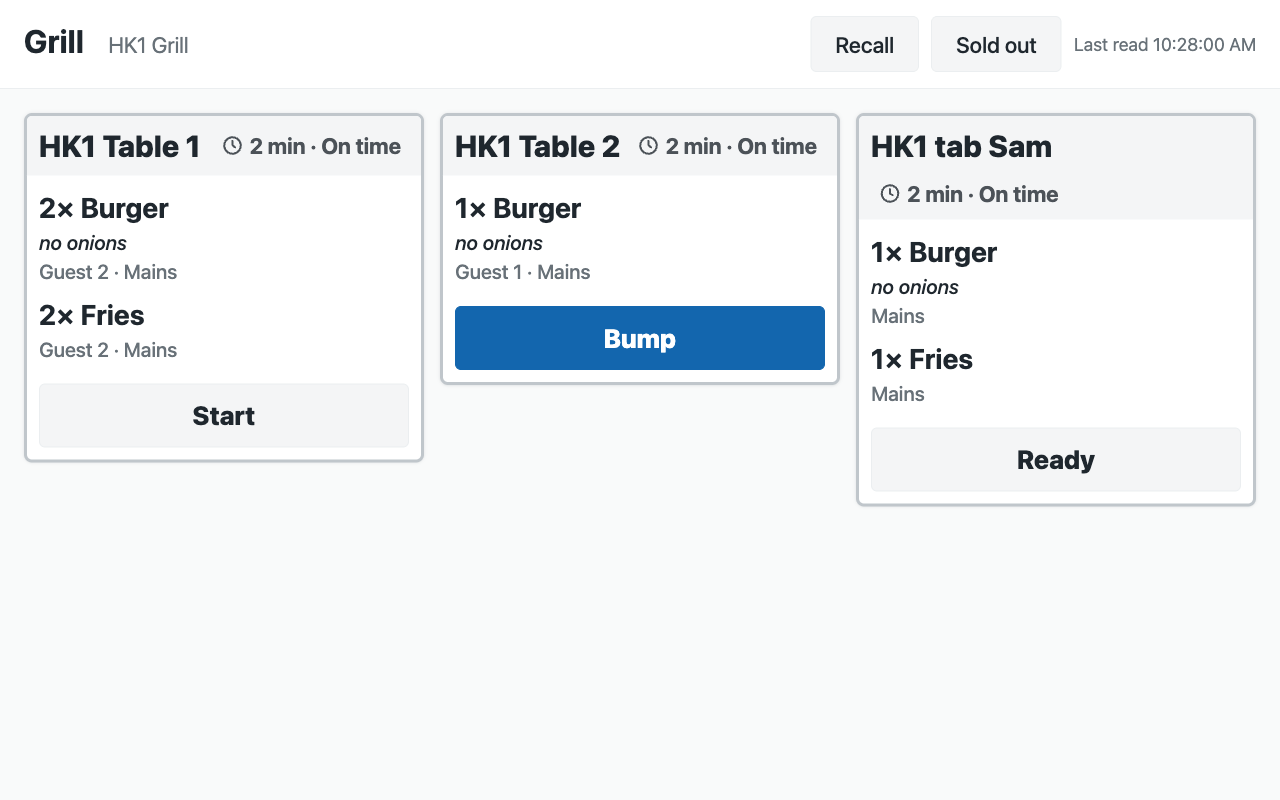
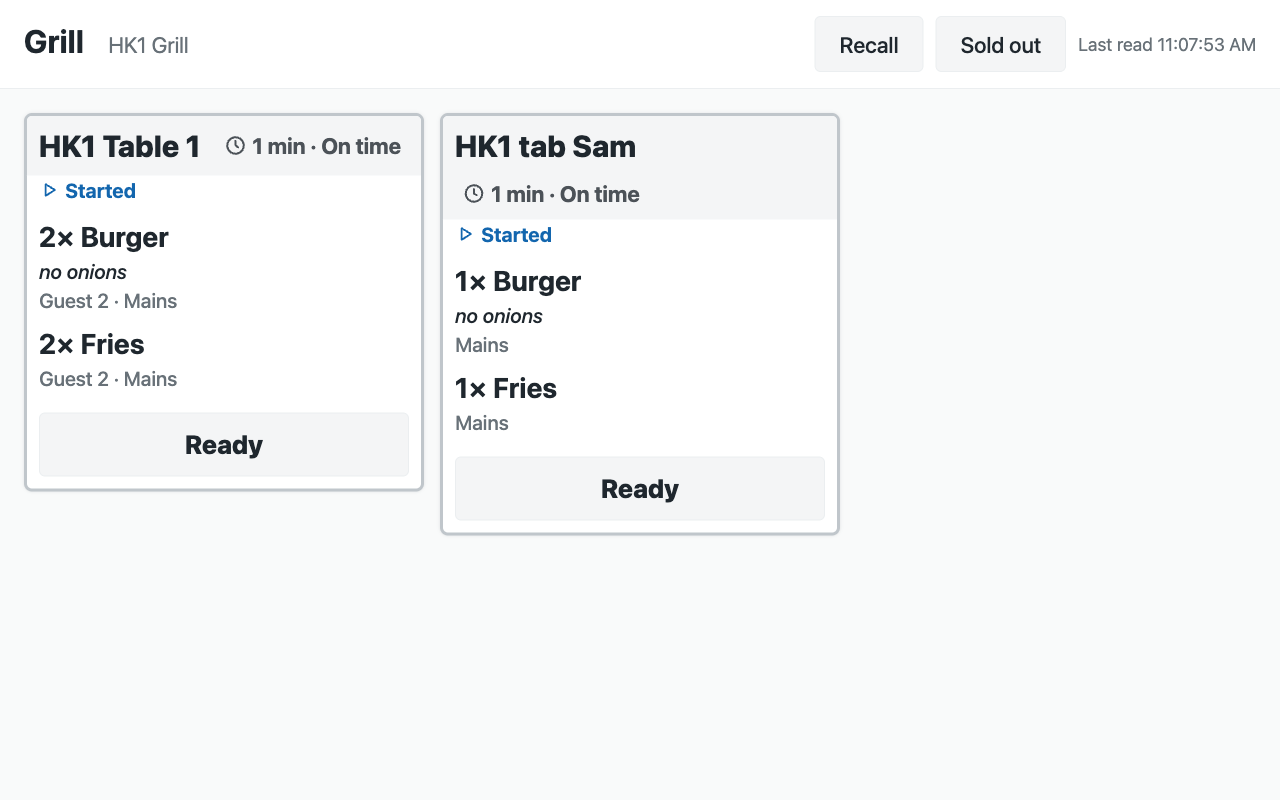
fix(samples): S59 — the scoped re-grades' folds (the Arabic mark, a refusal held for its own ticket, the started chip, a refused sold-out read kept)
Folds of review wave 1b (each fold graded by the gate that did not write it). Each with its class:
- Arabic Mark sold out is a verb again (it read the same as the red sold-out label); French bump is Retirer (the till's
  French for send is the kitchen send); the word note names only the till's words the page uses (WORDS).
- A tap's refusal is held 6 s and taken down only by a later success on the same ticket or dish (a success elsewhere
  no longer hides it; walked: two taps at once, the second ticket's success left the first's refusal up); the hold
  uses the page's monotonic clock (PAGE).
- The started chip has its own icon and the kit's blue (the flame and amber are the timer's late signs) (PAGE).
- A refused sold-out read is kept refused 30 s, so a missing right costs 2 calls a minute, not 20 (CODE, test s6 and a
  canary).
- The recipe's read rate (up to 40 board reads a minute for a store on one copy), and a manager's store scope is
  site-wide; the README's walk claim now names the walk after these folds; the pictures are retaken.
63 tests, 63 of 63 canaries RED.

diff --git a/samples/s59_kitchen_screen/service/page.js b/samples/s59_kitchen_screen/service/page.js
@@ -7,8 +7,8 @@
 (function () {
   "use strict";
   var READ_MS = 3000, RETRY_MS = 3000, LATE_READ_S = 15, NOTE_MS = 6000;
-  // The till's own words where it has them (check, guest, course, send, sold out: its ar, es and fr tables at T21);
-  // German and Portuguese are this app's own until the till signs them.
+  // The till's own words where it has them (guest and sold out, from its ar, es and fr tables at T21; send is never
+  // used for a bump, which is the kitchen's own step); German and Portuguese are this app's own until the till signs them.
   var WORDS = {
     en: { start: "Start", ready: "Ready", bump: "Bump", bumpOrder: "Bump order", recall: "Recall", soldOut: "Sold out",
           soldTitle: "Sold out at this store", markSold: "Mark sold out", markBack: "Available again", isSold: "Sold out",
@@ -25,7 +25,7 @@
           not_yours: "This ticket is another station's.", wait: "One moment, then tap again.",
           not_listed: "That dish is not on this screen's list.", off: "Sold out is switched off for this store." },
     ar: { start: "ابدأ", ready: "جاهز", bump: "أنهِ", bumpOrder: "أنهِ الطلب", recall: "استرجاع", soldOut: "نفدت الكمية",
-          soldTitle: "نفدت الكمية في هذا المتجر", markSold: "نفدت الكمية", markBack: "متوفر مرة أخرى", isSold: "نفدت الكمية",
+          soldTitle: "نفدت الكمية في هذا المتجر", markSold: "علّمه نافدًا", markBack: "متوفر مرة أخرى", isSold: "نفدت الكمية",
           close: "إغلاق", waiting: "ما زال للتحضير", preparing: "قيد التحضير", readyCol: "جاهز", void: "ملغى: أوقف التحضير",
           recallNote: "أُنهيت في آخر 30 دقيقة، لقراءتها مرة أخرى. لا يمكن إعادة تذكرة منتهية.",
           lastRead: "آخر قراءة {t}", empty: "لا تذاكر", nothing: "لا شيء بانتظار التحضير", onTime: "في الوقت",
@@ -52,14 +52,14 @@
           step: "Este ticket cambió en otra pantalla. Se lee el tablero otra vez.", gone: "Este ticket ya no está en el tablero.",
           not_yours: "Este ticket es de otra estación.", wait: "Un momento y pulse otra vez.",
           not_listed: "Ese plato no está en la lista de esta pantalla.", off: "Agotado está desactivado en esta tienda." },
-    fr: { start: "Commencer", ready: "Prêt", bump: "Envoyer", bumpOrder: "Envoyer la commande", recall: "Rappel",
+    fr: { start: "Commencer", ready: "Prêt", bump: "Retirer", bumpOrder: "Retirer la commande", recall: "Rappel",
           soldOut: "Épuisé", soldTitle: "Épuisé dans ce magasin", markSold: "Marquer épuisé", markBack: "De nouveau disponible",
           isSold: "Épuisé", close: "Fermer", waiting: "Reste à préparer", preparing: "En préparation", readyCol: "Prêt",
           void: "Annulé : ne pas préparer",
-          recallNote: "Envoyés dans les 30 dernières minutes, à relire. Un ticket envoyé ne peut pas revenir en arrière.",
+          recallNote: "Retirés dans les 30 dernières minutes, à relire. Un ticket retiré ne peut pas revenir en arrière.",
           lastRead: "Dernière lecture {t}", empty: "Aucun ticket", nothing: "Rien en attente", onTime: "À l'heure",
           warn: "Bientôt en retard", late: "En retard", min: "{n} min", guest: "Couvert {n}", stNew: "Nouveau",
-          stStarted: "Commencé", stReady: "Prêt", stBumped: "Envoyé", loading: "Lecture des tickets de la cuisine...",
+          stStarted: "Commencé", stReady: "Prêt", stBumped: "Retiré", loading: "Lecture des tickets de la cuisine...",
           unknown: "Le lien de cet écran ne fonctionne pas ou a été remplacé. Demandez le nouveau lien à votre responsable.",
           closed: "Ce magasin n'a pas d'écrans de cuisine configurés. Demandez à votre responsable.",
           not_set_up: "Cet écran ne peut pas lire les tickets. Demandez à votre responsable de vérifier l'utilisateur de l'app et sa clé.",
@@ -124,6 +124,7 @@
     warn: ["M12 3l9 16H3z", "M12 10v4", "M12 17v.5"],
     check: ["M5 12l5 5L19 7"],
     cross: ["M6 6l12 12", "M18 6L6 18"],
+    play: ["M8 5l11 7-11 7z"],
     flame: ["M12 3c3 4 5 6 5 10a5 5 0 0 1-10 0c0-2 1-4 3-5c0 2 1 3 2 3c0-3-1-5 0-8"]
   };
   function icon(name) {
@@ -163,12 +164,16 @@
       .then(function (r) { return r.json().catch(function () { return { state: "unavailable" }; }); })
       .catch(function () { return { state: "unavailable" }; });
   }
-  var noteUntil = 0;
+  var noteUntil = 0, noteFor = "";
+  function answered(a, what) {       // a refusal is held; a later success on the SAME ticket or dish takes it down
+    if (a.state === "refused" && WORDS.en[a.why]) { note(a.why, true); noteFor = what; }
+    else if (what === noteFor) { noteUntil = 0; note(""); }
+  }
   function note(key, hold) {         // a tap's refusal is held NOTE_MS, so the read that follows does not wipe it
     var n = $("note");
-    if (!key) { if (Date.now() < noteUntil) return; n.hidden = true; n.textContent = ""; return; }
+    if (!key) { if (performance.now() < noteUntil) return; n.hidden = true; n.textContent = ""; return; }
     n.textContent = w(key); n.hidden = false;
-    noteUntil = hold ? Date.now() + NOTE_MS : 0;
+    noteUntil = hold ? performance.now() + NOTE_MS : 0;
   }
   function schedule(ms) { clearTimeout(timer); timer = setTimeout(read, ms); }
   function read() {
@@ -205,13 +210,13 @@
     busy[key] = true; btn.disabled = true;
     call("/ksc/move", extra).then(function (a) {
       busy[key] = false;
-      if (a.state === "refused" && WORDS.en[a.why]) note(a.why, true);
+      answered(a, key);
       read();
     });
   }
   var NEXT = { "new": ["started", "start"], started: ["ready", "ready"], ready: ["bumped", "bump"] };
   var STATE_WORD = { "new": "stNew", started: "stStarted", ready: "stReady", bumped: "stBumped" };
-  var STATE_ICON = { "new": "clock", started: "flame", ready: "check", bumped: "check" };
+  var STATE_ICON = { "new": "clock", started: "play", ready: "check", bumped: "check" };
 
   function lines(t, cls) {
     var ul = el("ul", "ksc-lines " + (cls || ""));
@@ -318,7 +323,7 @@
       b.addEventListener("click", function () {
         b.disabled = true;
         call("/ksc/soldout", { item_code: d.item_code, sold_out: !isOut }).then(function (a) {
-          if (a.state === "refused" && WORDS.en[a.why]) note(a.why, true);
+          answered(a, "sold." + d.item_code);
           return read();
         }).then(drawSold);
       });

diff --git a/samples/s59_kitchen_screen/service/page.css b/samples/s59_kitchen_screen/service/page.css
@@ -46,7 +46,7 @@ body.ksc { min-block-size: 100vh; font-size: 20px; }
 .ksc-line-who { color: var(--ivn-text-muted); }
 .ksc-allergens { color: var(--ivn-pill-orange-ink); font-weight: 700; display: flex; align-items: center; gap: 6px; }
 .ksc-state { display: inline-flex; align-items: center; gap: 6px; font-size: 20px; font-weight: 700; }
-.ksc-st-started { color: var(--ivn-pill-orange-ink); }
+.ksc-st-started { color: var(--ivn-pill-blue-ink); }
 .ksc-st-ready { color: var(--ivn-pill-green-ink); }
 .ksc-act.ivn-btn-block { inline-size: calc(100% - 2 * var(--ivn-s3)); margin: var(--ivn-s2) var(--ivn-s3) var(--ivn-s3); min-block-size: 64px; font-size: 26px; font-weight: 800; }
 

diff --git a/samples/s59_kitchen_screen/tests/canaries.py b/samples/s59_kitchen_screen/tests/canaries.py
@@ -69,6 +69,8 @@ CANARIES = [
      R + "test_r1_a_link_is_the_retailers_own_signature_for_that_site_record_and_number"),
     ("a refused sold-out read leaves the tickets", S, "            except TenantError:         # the sold-out right missing",
      "            except ZeroDivisionError:   # the sold-out right missing", T + "test_s6_a_sold_out_read_the_shop_refuses_leaves_the_tickets_showing"),
+    ("a refused sold-out read is kept refused", S, "            self._keep(self._sold, key, None)\n            raise", "            raise",
+     T + "test_s6_a_sold_out_read_the_shop_refuses_leaves_the_tickets_showing"),
     ("an expo card leaves with its dishes", C, '        live = [t for t in ts if t["kind"] == "send" and t["state"] != "bumped"]',
      '        live = [t for t in ts if t["state"] != "bumped"]', R + "test_r6b_the_expo_card_leaves_with_its_dishes_and_times_its_oldest_open_one"),
     ("a busy board keeps its newest", C, "[-BOARD_MAX:]", "[:BOARD_MAX]", R + "test_r7b_a_busy_board_keeps_its_newest_tickets"),

diff --git a/samples/s59_kitchen_screen/service/app.py b/samples/s59_kitchen_screen/service/app.py
@@ -337,8 +337,14 @@ class Service:
         key = (site, store)
         kept = self._sold.get(key)
         if kept and self.clock() - kept[0] < SOLD_KEEP_S:
+            if kept[1] is None:         # refused a moment ago: kept refused, so a missing right costs 2 calls a minute
+                raise TenantError("item_availability -> refused (kept)", 403)
             return kept[1]
-        value = ksc.sold_out_of(door.call("item_availability", query={"warehouse": store}))
+        try:
+            value = ksc.sold_out_of(door.call("item_availability", query={"warehouse": store}))
+        except TenantError:
+            self._keep(self._sold, key, None)
+            raise
         self._keep(self._sold, key, value)
         return value
 

diff --git a/samples/s59_kitchen_screen/tests/test_service.py b/samples/s59_kitchen_screen/tests/test_service.py
@@ -308,6 +308,11 @@ class ServiceTest(unittest.TestCase):
         v = call(self.svc, "/ksc/board", t)[1]
         self.assertEqual((v["state"], len(v["view"]["tickets"])), ("open", 2))
         self.assertNotIn("sold_out", v)
+        self.shop.calls.clear()
+        for _ in range(11):                                            # 33 s of reads: kept refused 30 s, so asked once
+            self.later(3)
+            call(self.svc, "/ksc/board", t)
+        self.assertEqual(self.shop.calls.count("item_availability"), 1)
 
     def test_s4_sold_out_off_for_the_store_or_from_the_board_is_refused(self):
         board = made(self.shop, self.svc, "KSC-SCREEN-00003")

diff --git a/recipes/kitchen_screen.md b/recipes/kitchen_screen.md
@@ -27,7 +27,7 @@ Every restaurant past the first one runs its kitchen from screens. The till alre
 
 ### Screens
 
-5. The manager makes a **PP KSC Screen** for each screen (a manager of one store gets a **User Permission** on *Warehouse* for that store, so their screens reach that store alone): its name, its kind (*Station*, *Expo* or *Board*), its store and, for a station screen, its stations (one, or a few on a small kitchen's screen). **Make link** (on one record, or on many ticked in the list) writes the screen's number and its link. The manager opens the link on the screen's browser, full screen.
+5. The manager makes a **PP KSC Screen** for each screen (a manager of one store gets a **User Permission** on *Warehouse* for that store, so their screens reach that store alone; it scopes every store-linked record they open, as for any store-scoped user): its name, its kind (*Station*, *Expo* or *Board*), its store and, for a station screen, its stations (one, or a few on a small kitchen's screen). **Make link** (on one record, or on many ticked in the list) writes the screen's number and its link. The manager opens the link on the screen's browser, full screen.
 6. A link that leaked is replaced by pressing **Make link** again on that record: its number goes up by one and a screen open with the old link stops within 15 seconds. Changing a screen's kind, store or stations stops its link until *Make link* is pressed again.
 
 ### A service
@@ -58,7 +58,7 @@ Day to day the tills send as before; the kitchen taps tickets on its screens; th
 
 - **The link is an authorisation.** A screen's link carries the site, the screen record, its number and an HMAC-SHA256 signature of the three with the *Make link* subscription's secret (`#s=…&t=<record>.<number>.<signature>`, after `#`). The service checks the signature before it reads anything, then reads the record and refuses a link whose number moved on, or whose kind, store or stations changed since it was made (a hash of the three, written beside the number).
 - **What makes a link work is the app's.** The number, the link and what it was made for carry `write_roles` of the app's role and System Manager: a manager cannot lower a number to bring a leaked link back.
-- **One read for a store's screens.** A copy of the function keeps a store's board for 1.5 seconds, its sold-out list for 30 seconds, and a verified screen with its store's row for 15 seconds, so the screens of one kitchen read the retailer about once every 3 seconds between them. A move reads the board fresh first.
-- **Calls:** 20 calls a minute per screen to the service. On one copy they cost the retailer up to 20 board reads (shared by that copy's screens of the store), 4 screen-record and 4 store-row re-reads, and 2 sold-out reads when sold out is on. A move is a fresh board read and the move; a sold-out tap one call; at most one of either a screen every quarter of a second on each copy.
+- **One read for a store's screens.** A copy of the function keeps a store's board for 1.5 seconds, its sold-out list for 30 seconds, and a verified screen with its store's row for 15 seconds, so the screens of one kitchen that land on the same copy read the retailer's board at most once every 1.5 seconds between them. A move reads the board fresh first.
+- **Calls:** 20 calls a minute per screen to the service. On one copy they cost the retailer up to 40 board reads a minute for a store (shared by that copy's screens of the store, kept 1.5 seconds), 4 screen-record and 4 store-row re-reads, and 2 sold-out reads when sold out is on. A move is a fresh board read and the move; a sold-out tap one call; at most one of either a screen every quarter of a second on each copy.
 - **Live, without a socket.** The door's notice (`mpos_station_ticket` on the site's own socket) reaches only a server holding that socket. A function holds none between calls, so the page reads every few seconds, which the door's own page says to do when the socket is down. A partner hosting a container can hold the site's socket (namespace `/<site>`, `Authorization: token key:secret`, `Origin` the site's address, a `Cookie` with no `sid`) and tell its screens to read at once.
 - **The page.** Served by the service (`page.html`, `page.js`, `page.css`, and the kit's `ivn-kit.css` and `ivn-kit.js`), with a policy that allows nothing from another site and no inline script. Every word the retailer wrote is put on the page as text, never as markup.

diff --git a/samples/s59_kitchen_screen/README.md b/samples/s59_kitchen_screen/README.md
@@ -58,7 +58,7 @@ python3 tools/check/check.py samples/s59_kitchen_screen                         
 bash kit/design/tools/check_kit.sh samples/s59_kitchen_screen/service/page.html     # the page's kit checks
 ```
 
-The tests drive the service with a stand-in site. The page's own behaviour (text only, never markup; the held refusal note; the amber *Last read*; the timers; right to left with real tickets) has no script harness in the kit: it was walked in a browser on our bench, and the page check's contrast and right-to-left passes run on the page before it has read a board.
+The tests drive the service with a stand-in site. The page's own behaviour (text only, never markup; the held refusal note; the amber *Last read*; the timers; right to left with real tickets) has no script harness in the kit: it was walked in a browser on our bench after the review's folds (two taps at once, the refusal held six seconds; Arabic, right to left, with real tickets), and the page check's contrast and right-to-left passes run on the page before it has read a board.
 
 The service: `python3 service/app.py service/.env.local` for one store (the env file names the app's user's key, the *Make link* secret the install handed back and the page's address), or as a function on CitiXsys hosting for many (`app.json`). It serves the screen's page itself (`service/page.html`, `page.js`, `page.css`, and its pinned copy of the kit's `ivn-kit.css` and `ivn-kit.js`: no inline script, nothing from another site).
 
